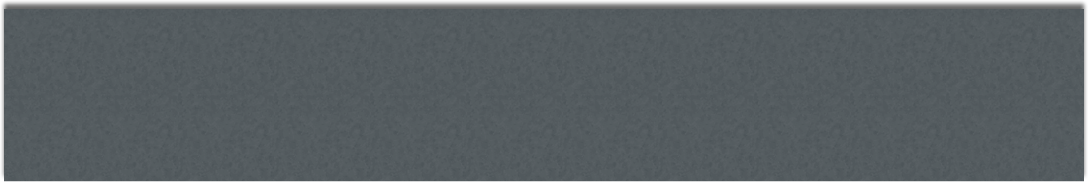
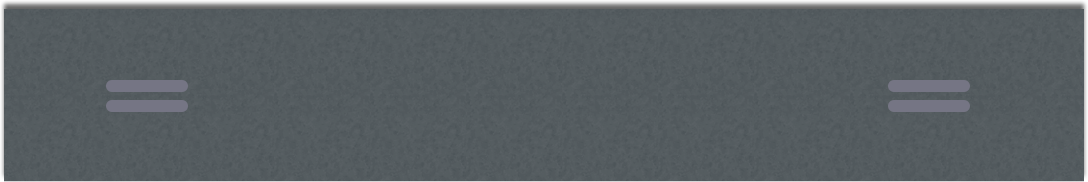
1-st page need help

diff --git a/style.css b/style.css
@@ -12,12 +12,8 @@ body{
     margin-left: 5%;
     margin-right: 3%;
 }
-.header .arrow img{
-    width: 100%;
-    height: 100%;
-}
+
 .header .title{
-    font-family: Roboto;
     color: white;
     font-size: 300%;
     display: inline-block;
@@ -25,27 +21,94 @@ body{
 }
 .header .settings{
     display: inline-block;
+    position: absolute;
+    margin-left: 30%;
 }
-.header .settings img{
-    width: 13%;
-    height: 13%;
-    margin-left: 85%;
-}
+
 .header .circles{
-    margin-top: 1%;
-    padding-top: 15%;
+    display: inline-block;
+    position: absolute;
+    padding-bottom: 45px;
+    margin-top: -1%;
+    margin-left: 60%;
 }
 .header .circles .circle{
     display: block;
-    width: 1%;
-    height: 1%;
+    width: 15px;
+    height: 15px;
     background-color: #ffffff;
     border-radius: 50%;
-    position: absolute;
-    margin-left: 90%;
-    margin-top: 10%;
+    margin-top: 15px;
 }
 
-.content .album.artist_track{
+.content .cover{
+    margin-top: 5%;
     text-align: center;
+}
+.content .line{
+    background-color:  #ff5252;
+    width: 640px;
+    height: 30px;
+    display: block;
+    margin-left: 337px;
+    margin-top: -20px;
+    horiz-align: center;
+}
+.content .time{
+    display: block;
+    color: #ff5252;
+    margin-left: 940px;
+    font-size: large;
+}
+.content .album{
+    text-align: center;
+    display: block;
+    color: #ffffff;
+    font-size: 50px;
+    padding: 40px;
+}
+.content .artist_track{
+    text-align: center;
+    display: block;
+    color: #ff5252;
+    font-size: 25px;
+}
+.content .but{
+    display: inline-block;
+    width: 100%;
+    text-align: center;
+}
+.content .but .img1{
+    display: inline-block;
+    padding: 5%;
+}
+.content .but .img2{
+    display: inline-block;
+    padding: 5%;
+}
+.content .but .img3{
+    display: inline-block;
+    padding: 5%;
+}
+.content .but .img4{
+    display: inline-block;
+    padding: 5%;
+}
+.content .but .img5{
+    display: inline-block;
+    padding: 5%;
+}
+.footer .caption span{
+    position: absolute;
+    display: block;
+    text-align: center;
+    color: #ffffff;
+    font-size: 50px;
+    margin-left: 44%;
+    margin-top: -8%;
+}
+.footer .caption img{
+    width: 100%;
+    height: 183px;
+    display: block;
 }

diff --git a/app.html b/app.html
@@ -18,23 +18,23 @@
         </span>
     </div>
 <div class="content">
-    <img src="images/album-cover.jpg">
+    <p class="cover"><img src="images/album-cover.jpg"></p>
     <span class="line"></span>
     <span class="time">2.50</span>
     <span class="album">Cannonballs</span>
     <span class="artist_track">Louder - Lea Michele</span>
-    <i class="player-buttons">
-        <img src="images/shuffle.png">
-        <img src="images/left.png">
-        <img src="images/play.png">
-        <img src="images/right.png">
-        <img src="images/repeat.png">
-    </i>
+    <p class="but">
+        <img src="images/shuffle.png" class="img1">
+        <img src="images/left.png" class="img2">
+        <img src="images/play.png" class="img3">
+        <img src="images/right.png" class="img4">
+        <img src="images/repeat.png" class="img5">
+    </p>
 </div>
 <div class="footer">
     <span class="caption">
         <img src="images/footer.png">
-        Playlist
+        <span>Playlist</span>
     </span>
 </div>
 </body>
